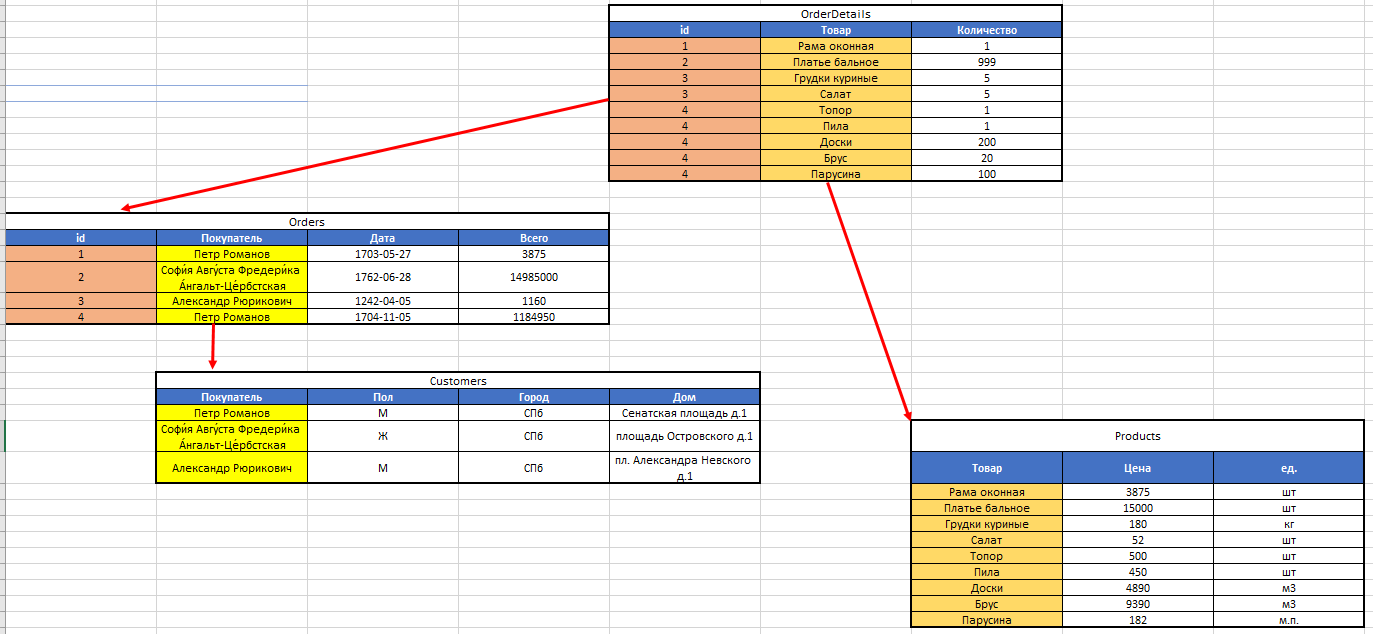
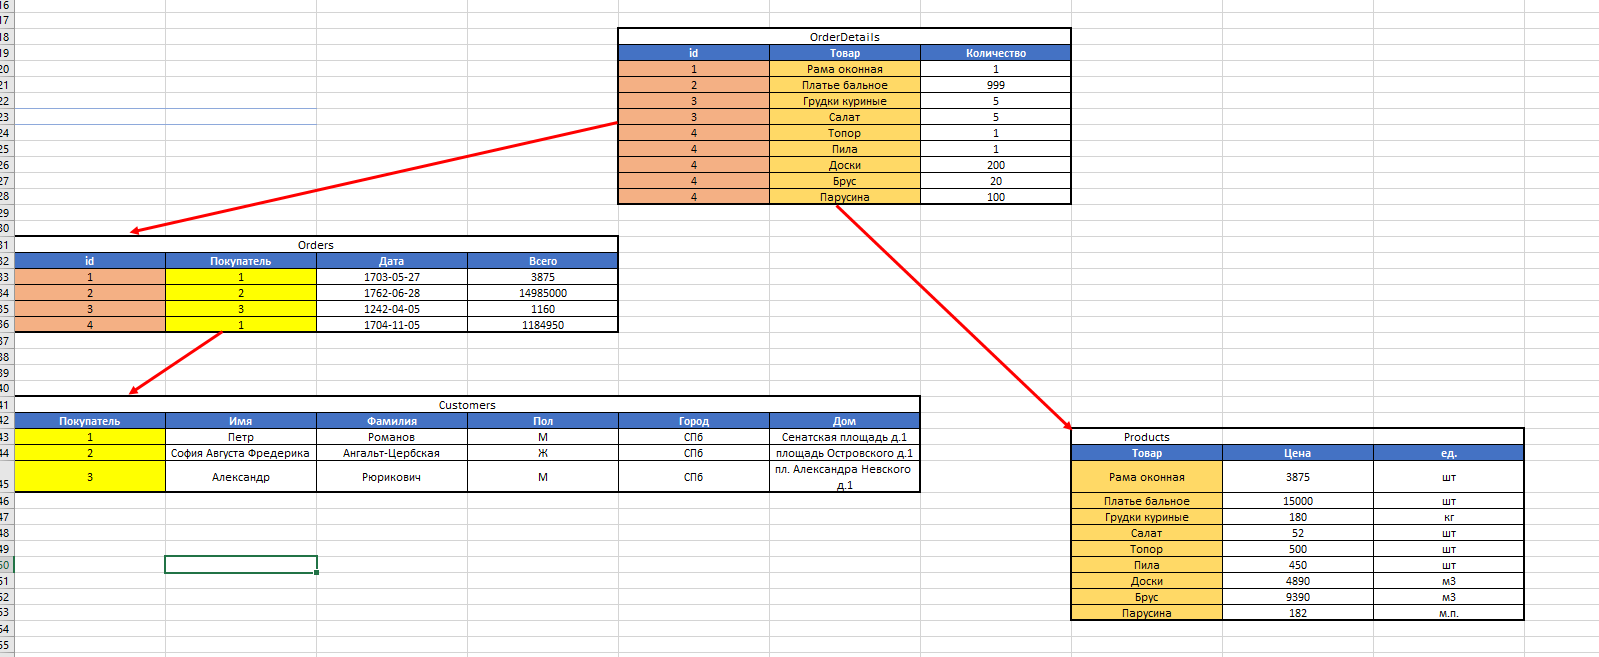
Исправлена схема

diff --git a/SQL/second/README.md b/SQL/second/README.md
@@ -1,7 +1,3 @@
-Таблица разделена на 7 таблиц:
-
-Id выступает как id заказа
-
 Схема связей:
 
 ![Схема связей](src/image.png)
